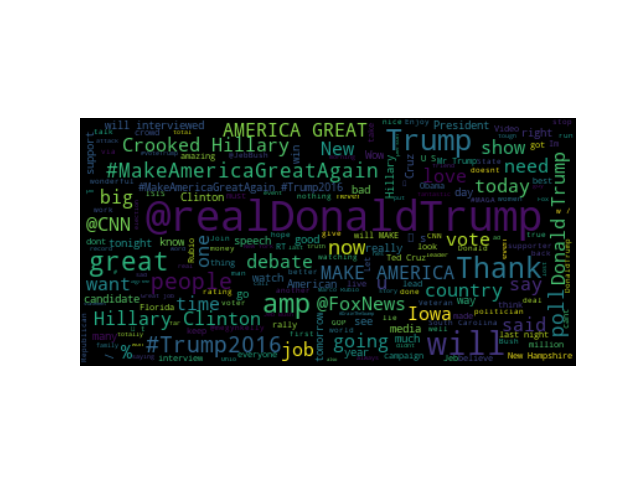
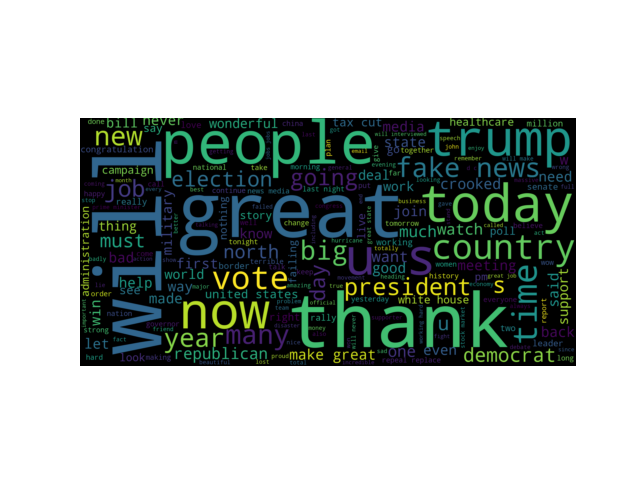
[Code/Graphs] Added some graphs and changed graphing code as required for graphs

Changed region(s): [[0.125, 0.25, 0.9062, 0.7812]]

diff --git a/src/graphs/favourite_words.py b/src/graphs/favourite_words.py
@@ -6,6 +6,7 @@ from ronald_brain.models.markov_chain import *
 from collections import Counter
 import seaborn as sns
 import matplotlib.pyplot as plt
+from pprint import pprint
 
 import pandas as pd
 
@@ -21,21 +22,22 @@ def favourite_english_words(user):
     df = df.loc[df['count'] > 250]
 
     sns_plot = sns.factorplot(x='word', y='count', data=df, kind='bar', aspect=2)
-    sns_plot.savefig("graphs/histograms/english_word_count.png")
+    # sns_plot.savefig("graphs/histograms/english_word_count.png")
 
     plt.show()
 
 
-def words_after_word(user, target_word):
+def words_after_word(user, target_word, n):
     user_twitter = constants.TWITTER_ACCOUNTS[user]
     pp = preprocessor.Preprocessor(user_twitter)
     words = [t for t in pp.tokenized_flat if t not in USELESS_PUNCTUATION + FRONT_PUNCTUATION]
 
-    grams = pp.build_n_grams(words, 5)
+    grams = pp.build_n_grams(words, n)
 
-    target_bigrams = [t for t in grams if t[0] == target_word]
+    grams = [(','.join(g[:-1]), g[-1]) for g in grams]
+    # target_bigrams = [t for t in grams if t[0] == target_word]
 
-    target_follow = [' '.join(t[1:]) for t in target_bigrams]
+    target_follow = [' '.join(t[1:]) for t in grams]
 
     count = Counter(target_follow)
     labels, values = zip(*count.items())
@@ -43,16 +45,18 @@ def words_after_word(user, target_word):
     word_dict = {"word": labels, "count": values}
     df = pd.DataFrame(word_dict).sort_values('count', ascending=False)
 
-    df = df.head(7)
+    df = df.head(30)
+    pprint(df)
 
     sns_plot = sns.factorplot(x='word', y='count', data=df, kind='bar', aspect=2)
-    sns_plot.savefig("graphs/%s/histograms/words_after_%s.png" % (user_twitter, target_word))
+    sns_plot.savefig("graphs/%s/histograms/word_after_%s_%sgram_count100.png" % (user_twitter, target_word, n))
 
     plt.show()
 
 
-favourite_english_words("DONALD_TRUMP")
-words_after_word("DONALD_TRUMP", "clinton")
+# favourite_english_words("DONALD_TRUMP")
+word = "unigrams"
+words_after_word("DONALD_TRUMP", word, 1)
 
 
 

diff --git a/src/graphs/word_cloud.py b/src/graphs/word_cloud.py
@@ -4,6 +4,8 @@ from ronald_brain.util.constants import TWEET_REGEXES, FRONT_PUNCTUATION, USELES
 from wordcloud import WordCloud
 from wordcloud.tokenization import unigrams_and_bigrams, process_tokens
 
+from nltk.corpus import stopwords
+
 import matplotlib.pyplot as plt
 
 class TweetCloud(WordCloud):
@@ -36,12 +38,20 @@ class TweetCloud(WordCloud):
 def create_word_cloud(user):
     pp = Preprocessor(user)
 
-    wc = TweetCloud(width=800, height=400).generate(pp.words_only_flat)
+    wc = TweetCloud(width=2000, height=2200,
+                    background_color="#001610",
+                    stopwords=set(stopwords.words('english'))).generate(' '.join(pp.words_only_flat))
 
     return wc
 
 def save_cloud(wordcloud):
     plt.imshow(wordcloud, interpolation='bilinear')
     plt.axis("off")
+    # plt.show()
     plt.savefig('graphs/wordclouds/tweet_total_cloud.png')
+
+user = "realdonaldtrump"
+cloud = create_word_cloud(user)
+cloud.to_file('graphs/wordclouds/%s_tweet_cloud.png')
+
 

diff --git a/src/conf/get_credentials.py b/src/conf/get_credentials.py
@@ -12,3 +12,8 @@ def get_credentials(user):
                 "c_secret": hark.CONSUMER_SECRET,
                 "a_key": hark.ACCESS_KEY,
                 "a_secret": hark.ACCESS_SECRET}
+    else:
+        return {"c_key": ronald.CONSUMER_KEY,
+                "c_secret": ronald.CONSUMER_SECRET,
+                "a_key": ronald.ACCESS_KEY,
+                "a_secret": ronald.ACCESS_SECRET}

diff --git a/src/test.py b/src/test.py
@@ -3,8 +3,8 @@ from ronald_mouth import bot
 from sys import exit
 import ronald_brain.util.constants as c
 
-user = 'markhumphrys'
-gen = generator.Generator(user, 4, 2)
+user = 'realdonaldtrump'
+gen = generator.Generator(user, 3, 2)
 
 send_to_twitter = ''
 tweet = ''
